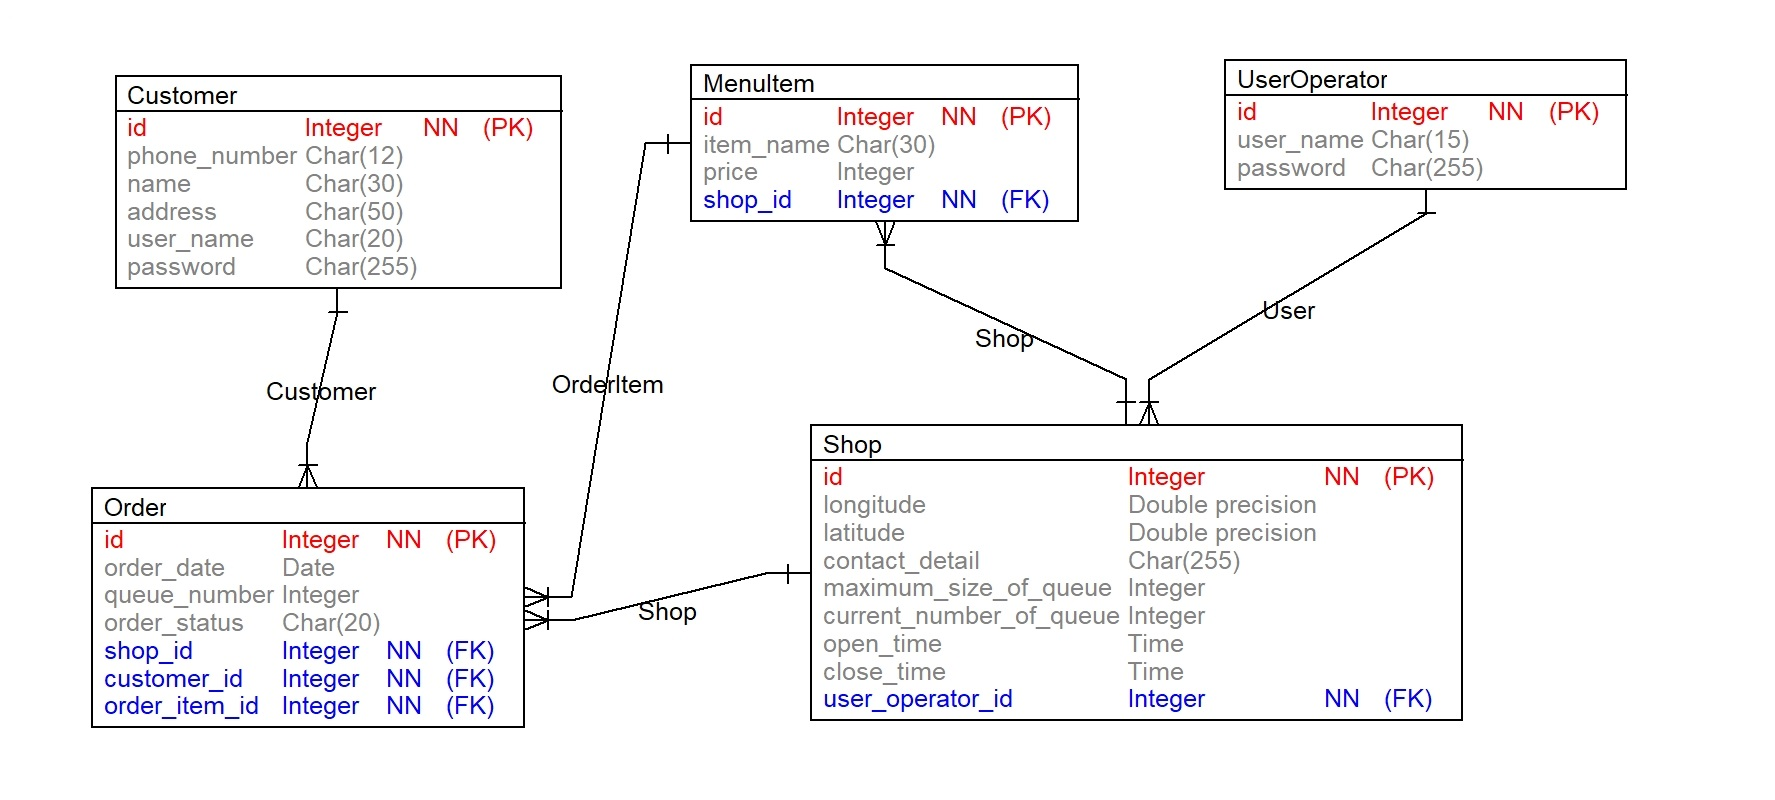
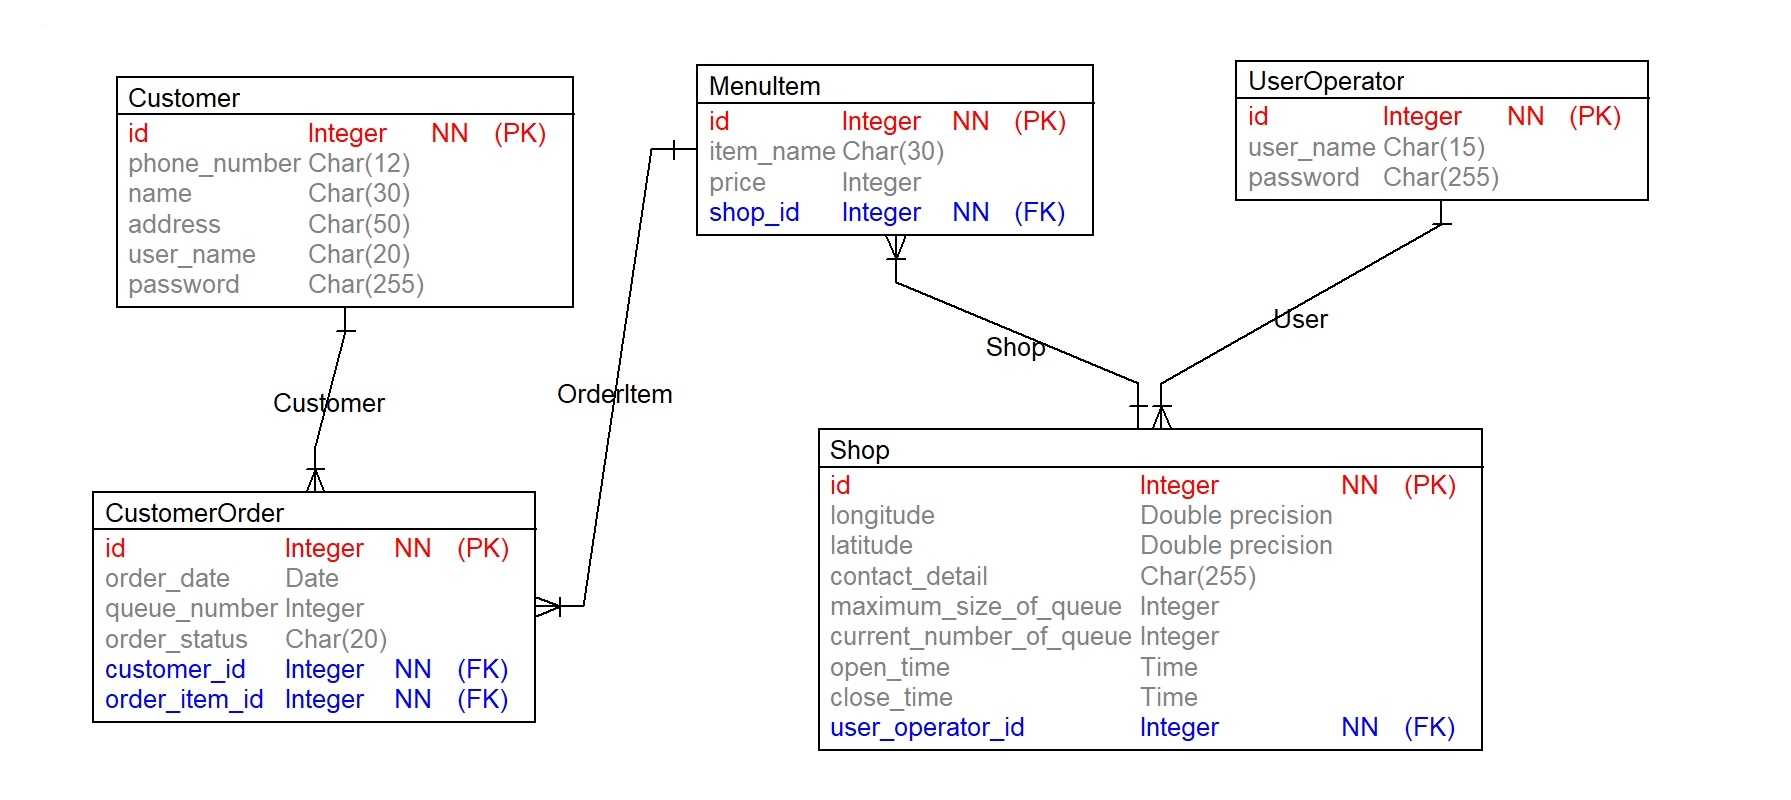
fix bug

diff --git a/src/main/java/com/interview/project/service/CustomerService.java b/src/main/java/com/interview/project/service/CustomerService.java
@@ -45,17 +45,14 @@ public class CustomerService {
 
     public PlaceOrderResponse placeOrder(PlaceOrderRequest request) {
         //Validate Request
-        var shop = shopRepository.findById(request.getShopId());
-        if (!shop.isPresent()) {
-            throw new SystemRuntimeException(HttpStatus.BAD_REQUEST, ErrorInfo.INVALID_SHOP, "Invalid Shop");
-        }
-        if (shop.get().getMaximumSizeOfQueue() < shop.get().getCurrentNumberOfQueue()) {
-            throw new SystemRuntimeException(HttpStatus.BAD_REQUEST, ErrorInfo.SHOP_QUEUE_IS_FULL, "Queue is full. Please wait!");
-        }
-
         var orderItem = menuItemRepository.findById(request.getOrderItemId());
         if (!orderItem.isPresent()) {
             throw new SystemRuntimeException(HttpStatus.BAD_REQUEST, ErrorInfo.INVALID_MENU_ITEM, "Invalid Menu Item");
+        }
+
+        var shop = orderItem.get().getShop();
+        if (shop.getMaximumSizeOfQueue() < shop.getCurrentNumberOfQueue()) {
+            throw new SystemRuntimeException(HttpStatus.BAD_REQUEST, ErrorInfo.SHOP_QUEUE_IS_FULL, "Queue is full. Please wait!");
         }
 
         var customer = customerRepository.findById(Long.valueOf(ProfileLocal.getUserId()));
@@ -64,16 +61,14 @@ public class CustomerService {
         }
 
         //Update shop queue
-        var sh = shop.get();
-        sh.setCurrentNumberOfQueue(sh.getCurrentNumberOfQueue() + 1);
-        sh = shopRepository.save(sh);
+        shop.setCurrentNumberOfQueue(shop.getCurrentNumberOfQueue() + 1);
+        shop = shopRepository.save(shop);
 
         //Place order
         var order = customerOrderRepository.save(CustomerOrder.builder()
                 .customer(customer.get())
                 .menuItem(orderItem.get())
-                .shop(shop.get())
-                .queueNumber(sh.getCurrentNumberOfQueue())
+                .queueNumber(shop.getCurrentNumberOfQueue())
                 .orderStatus("CREATED")
                 .build());
 

diff --git a/src/test/java/com/interview/project/service/CustomerServiceTest.java b/src/test/java/com/interview/project/service/CustomerServiceTest.java
@@ -48,7 +48,6 @@ public class CustomerServiceTest {
         ProfileLocal.set(new UserIdentity("1"));
         var request = new PlaceOrderRequest();
         request.setOrderItemId(1L);
-        request.setShopId(1L);
 
         var result = customerService.placeOrder(request);
 
@@ -61,7 +60,6 @@ public class CustomerServiceTest {
         ProfileLocal.set(new UserIdentity("1"));
         var request = new PlaceOrderRequest();
         request.setOrderItemId(10L);
-        request.setShopId(1L);
 
         assertThrows(SystemRuntimeException.class,() -> customerService.placeOrder(request));
     }

diff --git a/src/test/java/com/interview/project/controller/CustomerControllerTest.java b/src/test/java/com/interview/project/controller/CustomerControllerTest.java
@@ -63,7 +63,7 @@ public class CustomerControllerTest {
         var mvcResult = mockMvc.perform(post("/customer/order")
                 .contentType(MediaType.APPLICATION_JSON)
                 .header(HttpHeaders.AUTHORIZATION, jwtProvider.generate("1"))
-                .content("{\"shopId\":1, \"orderItemId\":1, \"queueNumber\":1}"))
+                .content("{\"orderItemId\":1}"))
                 .andExpect(status().isOk()).andReturn();
 
         var response = mapper.readValue(mvcResult.getResponse().getContentAsString(), PlaceOrderResponse.class);

diff --git a/src/main/java/com/interview/project/entity/CustomerOrder.java b/src/main/java/com/interview/project/entity/CustomerOrder.java
@@ -22,9 +22,6 @@ public class CustomerOrder extends BaseAuditEntity {
     String orderStatus;//CREATED, WAITING, COMPLETE
 
     @ManyToOne(fetch = FetchType.LAZY)
-    Shop shop;
-
-    @ManyToOne(fetch = FetchType.LAZY)
     Customer customer;
 
     @ManyToOne(fetch = FetchType.LAZY)

diff --git a/src/main/java/com/interview/project/dto/PlaceOrderRequest.java b/src/main/java/com/interview/project/dto/PlaceOrderRequest.java
@@ -5,9 +5,6 @@ import lombok.Data;
 @Data
 public class PlaceOrderRequest {
 
-    //The id of shop record of item when choosing item in screen
-    Long shopId;
-
     //The id of item when choosing item in screen
     Long orderItemId;
 }
